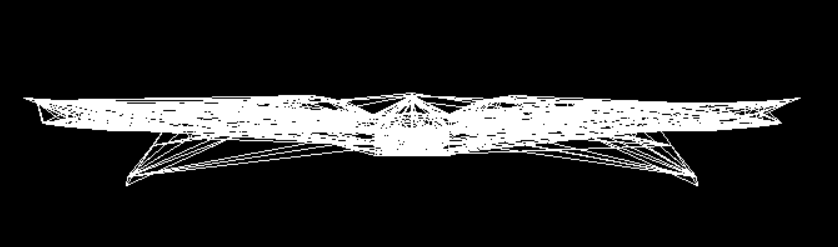
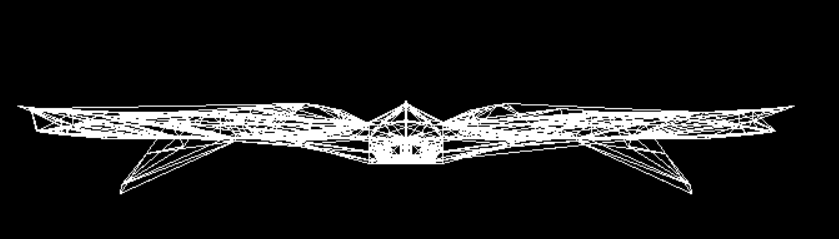
Some fixes in the triangulation.

Changed region(s): [[0.0, 0.3515, 0.9618, 0.8201]]

diff --git a/main.cpp b/main.cpp
@@ -172,15 +172,21 @@ bool loadOBJ(const std::string& path, std::vector<glm::vec3>& out_vertices, std:
     // Convert std::array<int, 3> to std::vector<std::array<int, 3>>
     out_faces.reserve(temp_faces.size() * 2); // Reserve space for triangles
     for (const auto& face : temp_faces) {
-        Face f1{}, f2{};
-
-        // Triangulate the face (split the square into two triangles)
-        f1.vertexIndices = { face[0] - 1, face[1] - 1, face[2] - 1 };
-        f2.vertexIndices = { face[0] - 1, face[2] - 1, face[3] - 1 };
-
-        out_faces.push_back(f1);
-        out_faces.push_back(f2);
+        if (face.size() == 3) {
+            // If the face has 3 vertices, push it directly
+            Face f{};
+            f.vertexIndices = { face[0] - 1, face[1] - 1, face[2] - 1 };
+            out_faces.push_back(f);
+        } else if (face.size() == 4) {
+            // If the face has 4 vertices, split it into two triangles
+            Face f1{}, f2{};
+            f1.vertexIndices = { face[0] - 1, face[1] - 1, face[2] - 1 };
+            f2.vertexIndices = { face[0] - 1, face[2] - 1, face[3] - 1 };
+            out_faces.push_back(f1);
+            out_faces.push_back(f2);
+        }
     }
+
 
 
 
